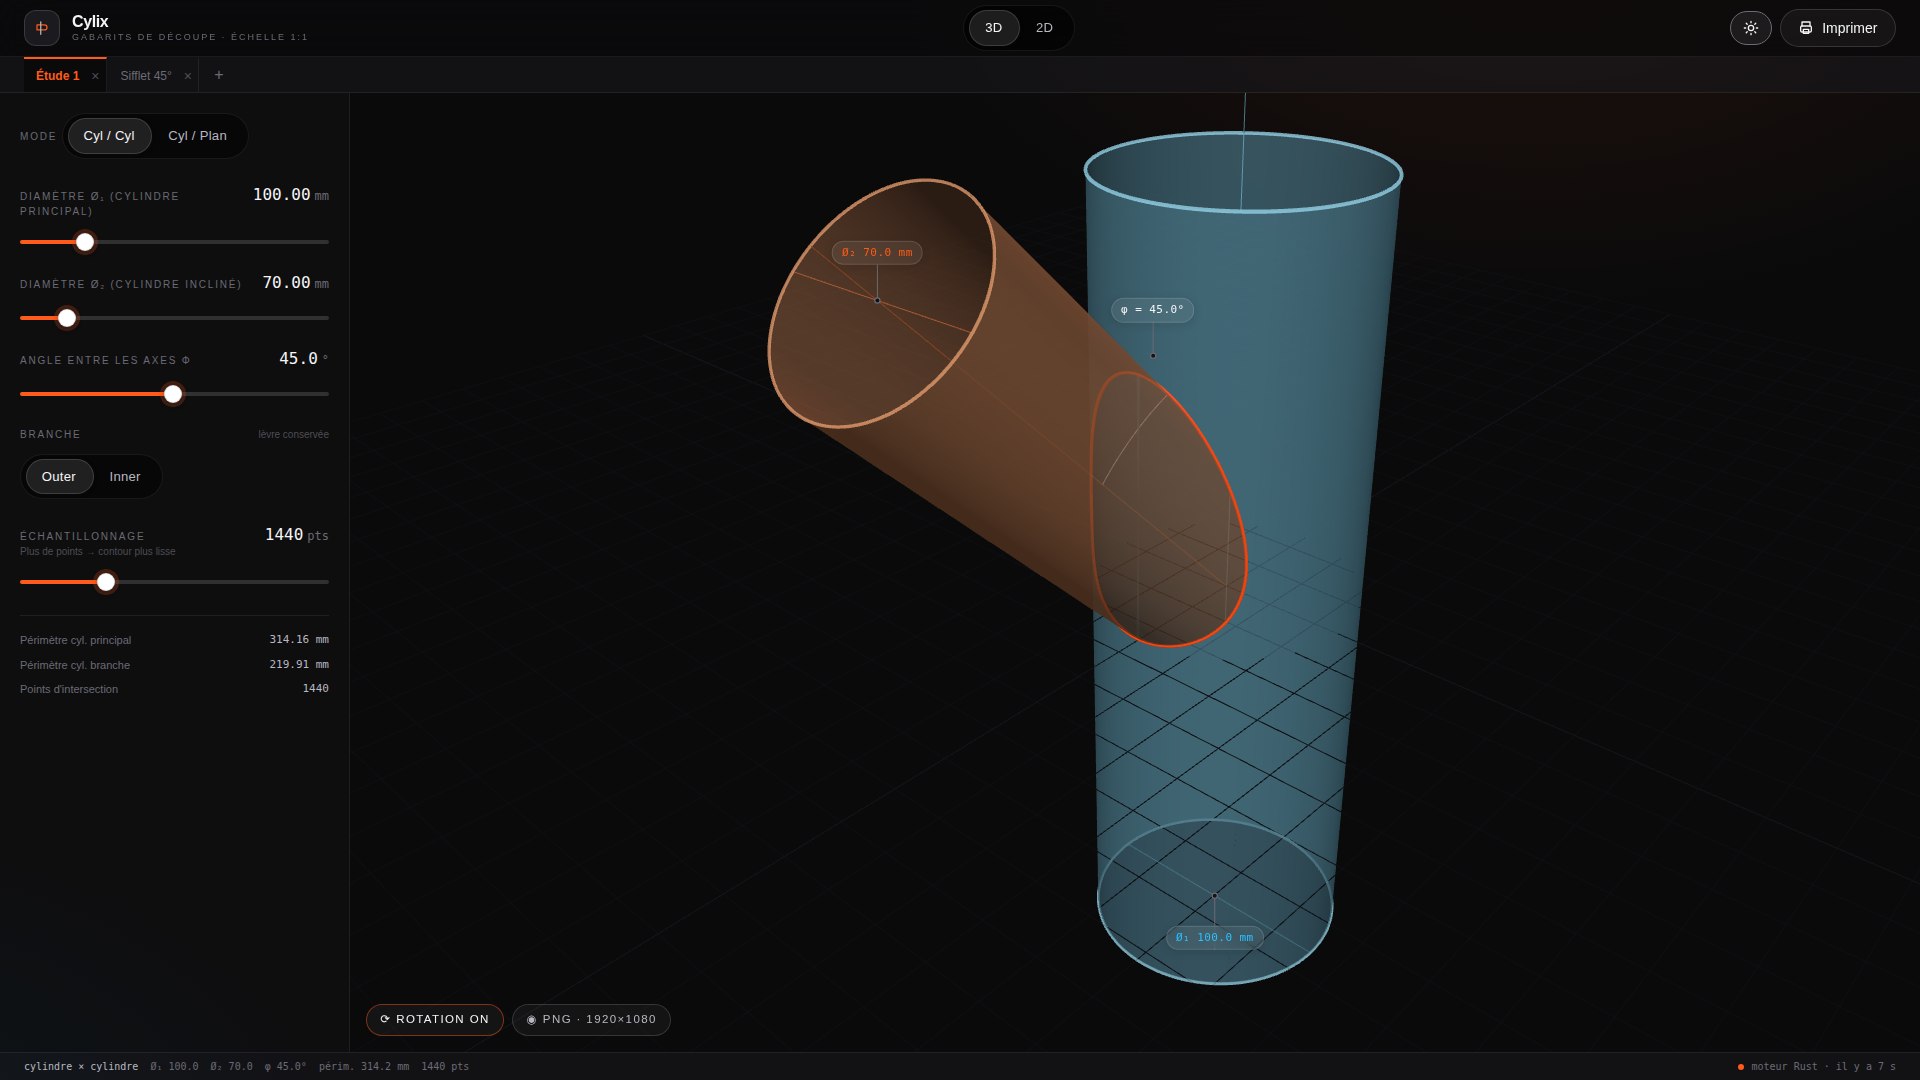
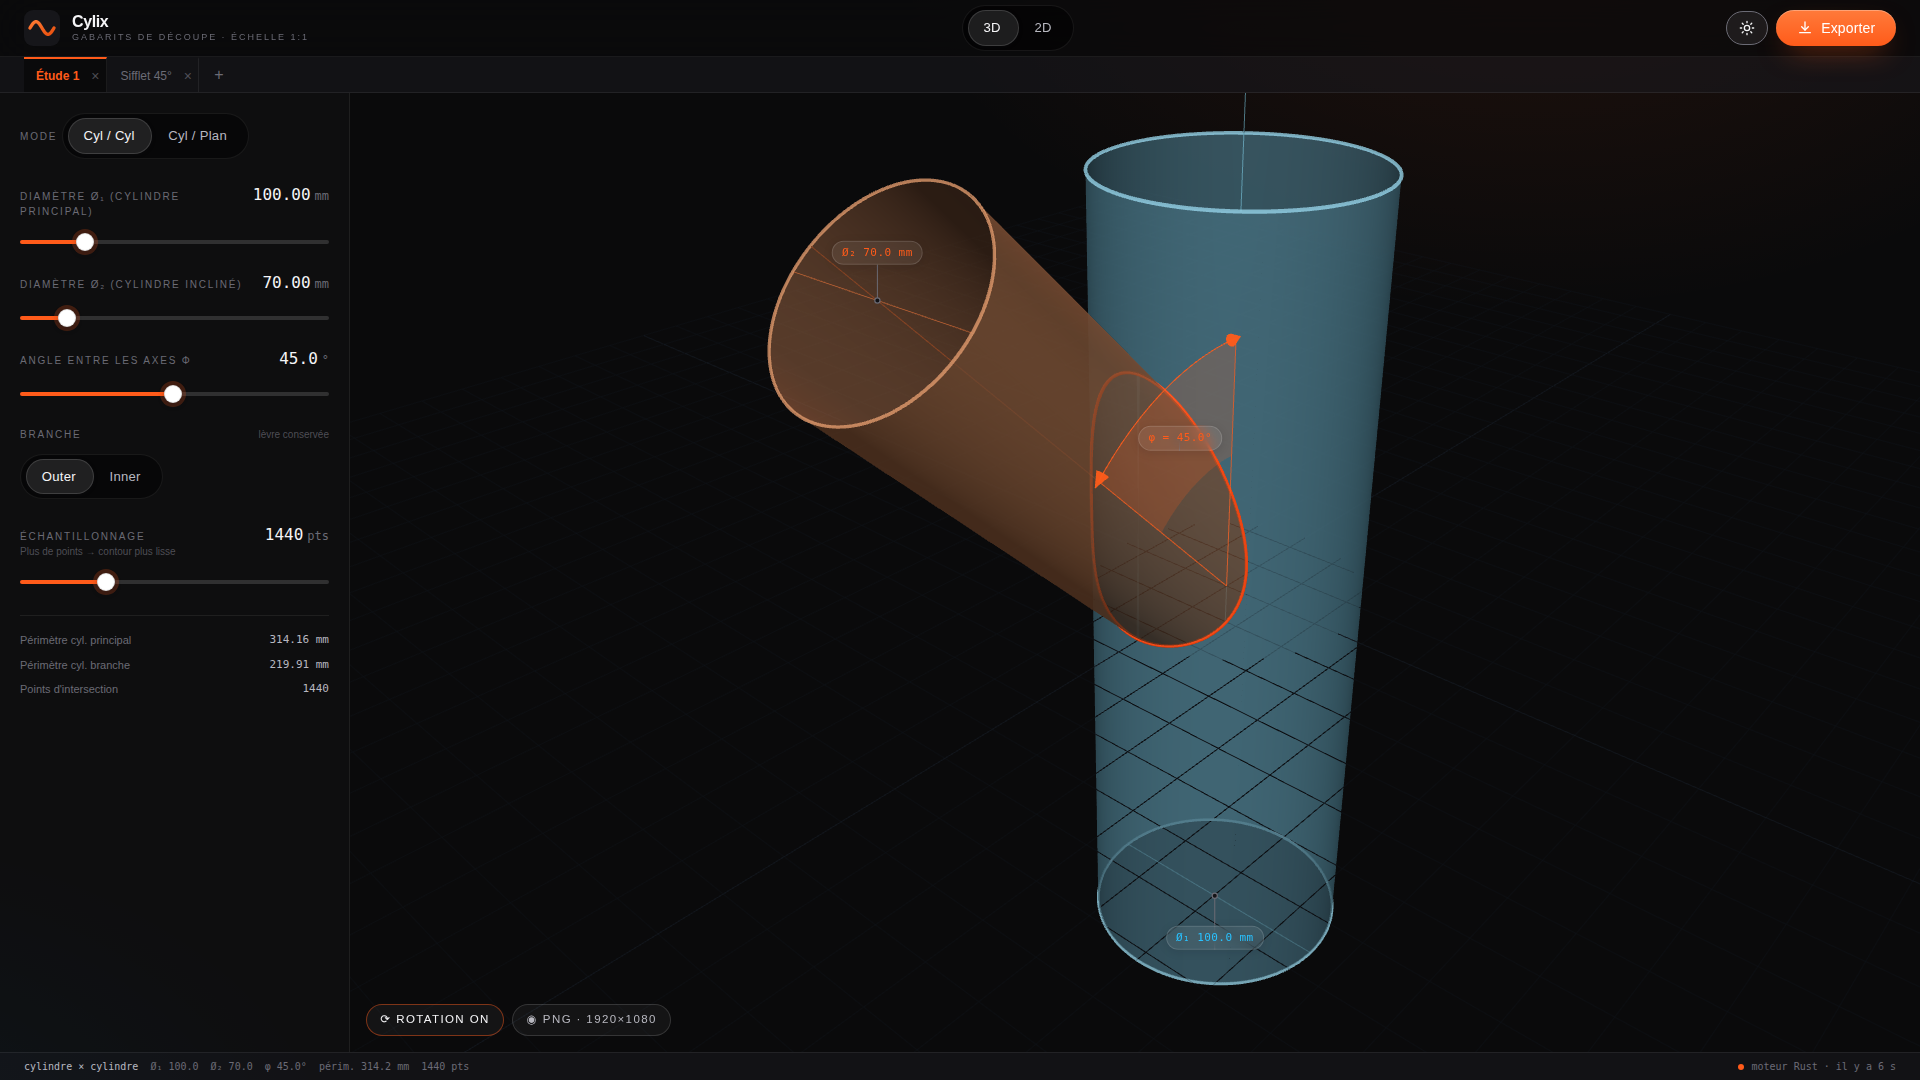
Header CTA becomes Exporter (runs the 1:1 PDF), protractor-style angle in 3D
- The header primary action now exports the PDF directly (busy state,
  download icon) instead of window.print.
- The phi angle is drawn as a CAD dimension: filled annular sector between
  the two axes (or between the horizontal and the cutting plane at z0 in
  cyl/plane mode), arc with arrowheads, radial edges — rendered depth-test
  off so the annotation always reads on top of the solids, ember-colored
  chip anchored mid-arc.

Claude-Session: https://claude.ai/code/session_01DVYZEnZfpxvTCaQceh5G1Y

diff --git a/web/src/components/Viewer3D.svelte b/web/src/components/Viewer3D.svelte
@@ -309,6 +309,99 @@
     return new THREE.Mesh(geom, mat);
   }
 
+  /**
+   * Protractor-style angle marker: filled annular sector swept by `dirFn`
+   * over [0, sweep], arc outline and arrowheads at both ends.
+   */
+  function angleSector(
+    origin: THREE.Vector3,
+    dirFn: (s: number) => THREE.Vector3,
+    sweep: number,
+    rIn: number,
+    rOut: number,
+    color: number,
+  ): THREE.Group {
+    const g = new THREE.Group();
+    const steps = 56;
+
+    const positions: number[] = [];
+    const indices: number[] = [];
+    for (let i = 0; i <= steps; i++) {
+      const d = dirFn((sweep * i) / steps);
+      const a = origin.clone().addScaledVector(d, rIn);
+      const b = origin.clone().addScaledVector(d, rOut);
+      positions.push(a.x, a.y, a.z, b.x, b.y, b.z);
+      if (i < steps) {
+        const k = 2 * i;
+        indices.push(k, k + 2, k + 1, k + 2, k + 3, k + 1);
+      }
+    }
+    const fanGeom = new THREE.BufferGeometry();
+    fanGeom.setAttribute("position", new THREE.Float32BufferAttribute(positions, 3));
+    fanGeom.setIndex(indices);
+    fanGeom.computeVertexNormals();
+    // CAD-dimension style: the angle annotation always reads on top.
+    const fanMesh = new THREE.Mesh(
+      fanGeom,
+      new THREE.MeshBasicMaterial({
+        color,
+        transparent: true,
+        opacity: 0.2,
+        side: THREE.DoubleSide,
+        depthWrite: false,
+        depthTest: false,
+      }),
+    );
+    fanMesh.renderOrder = 990;
+    g.add(fanMesh);
+
+    const arcPts: THREE.Vector3[] = [];
+    for (let i = 0; i <= steps; i++) {
+      arcPts.push(origin.clone().addScaledVector(dirFn((sweep * i) / steps), rOut));
+    }
+    const arcLine = new THREE.Line(
+      new THREE.BufferGeometry().setFromPoints(arcPts),
+      new THREE.LineBasicMaterial({ color, transparent: true, opacity: 0.95, depthTest: false }),
+    );
+    arcLine.renderOrder = 991;
+    g.add(arcLine);
+    // radial edges
+    for (const sEdge of [0, sweep]) {
+      const edge = new THREE.Line(
+        new THREE.BufferGeometry().setFromPoints([
+          origin.clone(),
+          origin.clone().addScaledVector(dirFn(sEdge), rOut),
+        ]),
+        new THREE.LineBasicMaterial({ color, transparent: true, opacity: 0.7, depthTest: false }),
+      );
+      edge.renderOrder = 991;
+      g.add(edge);
+    }
+    // arrowheads, tangent to the arc
+    const headLen = Math.max(rOut * 0.055, 4);
+    for (const [sTip, sign] of [
+      [0, -1],
+      [sweep, 1],
+    ] as [number, number][]) {
+      const tip = origin.clone().addScaledVector(dirFn(sTip), rOut);
+      const eps = 0.02;
+      const tangent = origin
+        .clone()
+        .addScaledVector(dirFn(sTip + sign * eps), rOut)
+        .sub(tip)
+        .normalize();
+      const cone = new THREE.Mesh(
+        new THREE.ConeGeometry(headLen * 0.42, headLen, 12),
+        new THREE.MeshBasicMaterial({ color, transparent: true, opacity: 0.95, depthTest: false }),
+      );
+      cone.renderOrder = 992;
+      cone.position.copy(tip);
+      cone.quaternion.setFromUnitVectors(new THREE.Vector3(0, 1, 0), tangent);
+      g.add(cone);
+    }
+    return g;
+  }
+
   function axisLine(from: THREE.Vector3, to: THREE.Vector3, color: number): THREE.Line {
     const geom = new THREE.BufferGeometry().setFromPoints([from, to]);
     const mat = new THREE.LineBasicMaterial({ color, transparent: true, opacity: 0.5 });
@@ -581,30 +674,52 @@
       });
     }
 
-    // Angle arc between the two axes (in the x = 0 plane).
+    // The φ angle, protractor-style — THE parameter of the study must be
+    // unmistakable: filled sector between the two axes, arrows, bold chip.
     if (Math.abs(phiAngle) > 1e-3 && payload.mode === "cyl_cyl") {
-      const rArc = Math.max(r1 * 1.9, (payload.r2 ?? 0) * 1.9, 55);
-      const arcPts: THREE.Vector3[] = [];
-      for (let i = 0; i <= 48; i++) {
-        const s = (phiAngle * i) / 48;
-        arcPts.push(new THREE.Vector3(0, Math.cos(s) * rArc, Math.sin(s) * rArc));
-      }
-      const arc = new THREE.Line(
-        new THREE.BufferGeometry().setFromPoints(arcPts),
-        new THREE.LineBasicMaterial({ color: pal.arc, transparent: true, opacity: 0.8 }),
+      const rArc = Math.max(r1 * 1.95, (payload.r2 ?? 0) * 1.95, 60);
+      const emberCol = palette().curve;
+      annotGroup.add(
+        angleSector(
+          new THREE.Vector3(0, 0, 0),
+          (sA) => new THREE.Vector3(0, Math.cos(sA), Math.sin(sA)),
+          phiAngle,
+          rArc * 0.55,
+          rArc,
+          emberCol,
+        ),
       );
-      annotGroup.add(arc);
       const midA = phiAngle / 2;
       anchors.push({
         text: `φ = ${((phiAngle * 180) / Math.PI).toFixed(1)}°`,
-        pos: new THREE.Vector3(0, Math.cos(midA) * rArc * 1.18, Math.sin(midA) * rArc * 1.18),
-        color: "var(--text)",
+        pos: new THREE.Vector3(0, Math.cos(midA) * rArc * 0.78, Math.sin(midA) * rArc * 0.78),
+        color: "var(--ember)",
+        dy: 0,
       });
-    } else if (payload.mode === "cyl_plane") {
+    } else if (payload.mode === "cyl_plane" && Math.abs(phiAngle) > 1e-3) {
+      // Sector between the horizontal and the cutting plane, at z0.
+      const rArc = r1 * 1.9;
+      const origin = new THREE.Vector3(0, store.params.z0, 0);
+      const sgn = Math.sign(phiAngle);
+      const emberCol = palette().curve;
+      annotGroup.add(
+        angleSector(
+          origin,
+          (sA) => new THREE.Vector3(0, -Math.sin(sA) * sgn, -Math.cos(sA)),
+          Math.abs(phiAngle),
+          rArc * 0.55,
+          rArc,
+          emberCol,
+        ),
+      );
+      const midA = Math.abs(phiAngle) / 2;
       anchors.push({
         text: `φ = ${((phiAngle * 180) / Math.PI).toFixed(1)}°`,
-        pos: new THREE.Vector3(-r1 * 1.4, store.params.z0 + r1, 0),
-        color: "var(--text)",
+        pos: origin
+          .clone()
+          .add(new THREE.Vector3(0, -Math.sin(midA) * sgn, -Math.cos(midA)).multiplyScalar(rArc * 0.78)),
+        color: "var(--ember)",
+        dy: 0,
       });
     }
 

diff --git a/web/src/components/Header.svelte b/web/src/components/Header.svelte
@@ -2,6 +2,7 @@
   // Compact tool header: brand, view toggle, actions.
   import Segmented from "./Segmented.svelte";
   import { store, type View } from "../lib/store.svelte";
+  import { editor } from "../lib/editor.svelte";
 
   const viewOptions = [
     { label: "3D", value: "3d" as View },
@@ -62,7 +63,13 @@
           </svg>
         {/if}
       </button>
-      <button class="btn-ghost !py-2 text-sm" onclick={() => window.print()} aria-label="Imprimer 1:1">
+      <button
+        class="btn-primary !py-2 text-sm"
+        disabled={editor.busy !== null || !store.result}
+        onclick={() => editor.exportPdf()}
+        aria-label="Exporter le PDF 1:1"
+        title="Exporter le PDF vectoriel à l'échelle 1:1"
+      >
         <svg
           viewBox="0 0 24 24"
           class="w-4 h-4 fill-none stroke-current"
@@ -70,11 +77,11 @@
           stroke-linecap="round"
           stroke-linejoin="round"
         >
-          <path d="M6 9V3h12v6" />
-          <rect x="4" y="9" width="16" height="9" rx="2" />
-          <path d="M8 14h8v6H8z" />
+          <path d="M12 3v12" />
+          <path d="m7 10 5 5 5-5" />
+          <path d="M4 19h16" />
         </svg>
-        Imprimer
+        {editor.busy === "pdf" ? "export…" : "Exporter"}
       </button>
     </div>
   </div>
